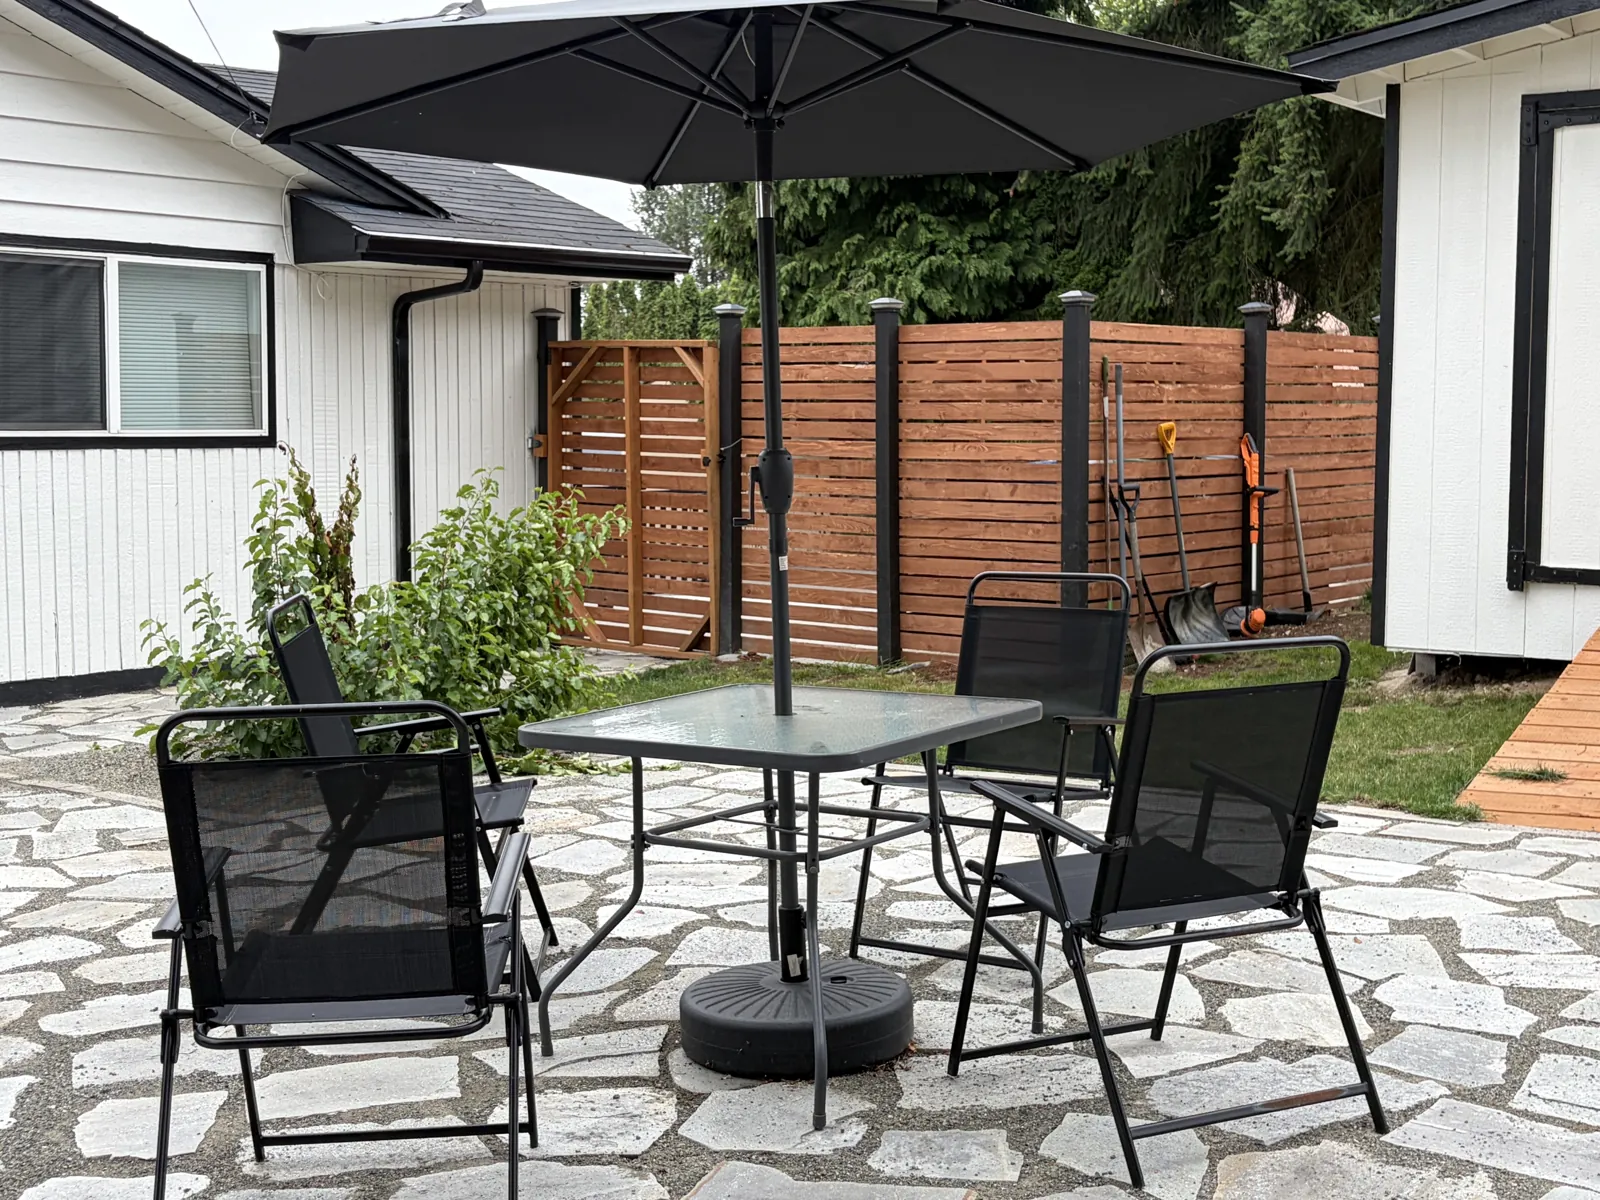
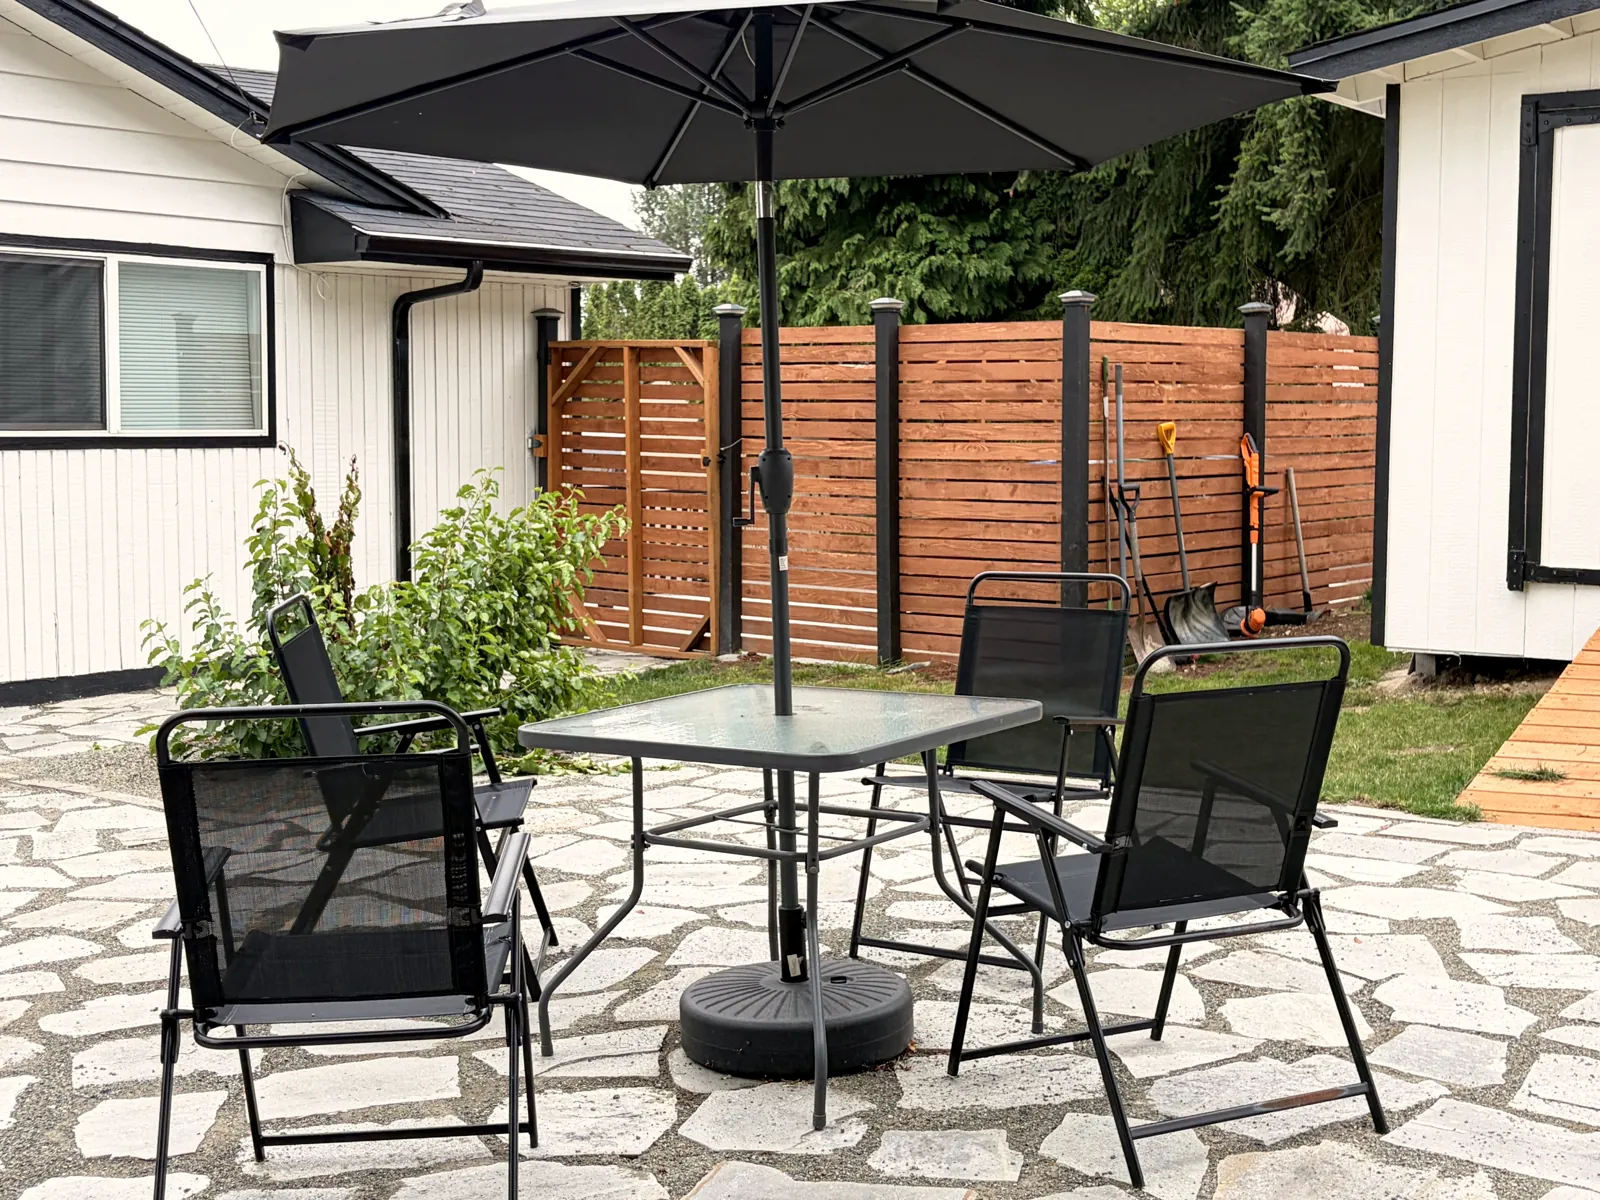
Number One Choice: brighten the exteriors, add referrals section and SEO depth
Photos were shot on an overcast day. The four exteriors are graded: shadows
opened, exposure lifted, warmed toward afternoon light, highlights rolled off
so the white siding keeps texture. No sky replacement.

Adds a "Referrals welcome" section naming his four DSHS contracts (Medicaid
AFH, Expanded Community Services, HCS and DDA Meaningful Day) with the referral
fax, three new FAQs (what an adult family home is, nurse delegation, the
contracts), schema sameAs to the Dear Care Home listing and the licence number
as an identifier. Nav tightened so seven items stay on one line.

diff --git a/numberonechoice/index.html b/numberonechoice/index.html
@@ -6,9 +6,8 @@
 <!-- PREVIEW BUILD. Domain chosen 2026-09-19: numberonechoiceafh.com (canonical, og:url and
      schema url below are already set for it). At launch, delete ONLY the robots line. -->
 <meta name="robots" content="noindex, nofollow">
-<!-- STAGED COPY: canonical, og:url and og:image point at this preview address so link
-     previews work. The source in Client/Melake - Number One/site/ keeps the real domain
-     for launch. Do not edit this copy; re-copy from source instead. -->
+<!-- STAGED COPY: canonical, og:url and og:image point here so shared links preview.
+     Source in Client/Melake - Number One/site/ keeps the real domain for launch. -->
 <link rel="canonical" href="https://fullcensus.org/numberonechoice/">
 <!-- Every factual claim on this page comes from the DSHS license record (lic 754078,
      6 beds, specialties SPMI/SPDE/SPDD, licensed 5/30/2019) or Melake's own DSHS
@@ -56,6 +55,8 @@
 "address":{"@type":"PostalAddress","streetAddress":"17225 Military Rd S","addressLocality":"SeaTac","addressRegion":"WA","postalCode":"98188","addressCountry":"US"},
 "geo":{"@type":"GeoCoordinates","latitude":47.44881,"longitude":-122.27760},
 "hasMap":"https://www.google.com/maps/search/?api=1&query=17225+Military+Rd+S%2C+SeaTac%2C+WA+98188",
+"sameAs":["https://dearcarehome.com/wa/king/seatac/number-one-choice-adult-family-home-754078/"],
+"identifier":{"@type":"PropertyValue","name":"Washington State DSHS license","value":"754078"},
 "areaServed":[
  {"@type":"City","name":"SeaTac"},{"@type":"City","name":"Burien"},{"@type":"City","name":"Tukwila"},
  {"@type":"City","name":"Des Moines"},{"@type":"City","name":"Kent"},{"@type":"City","name":"Renton"},
@@ -64,7 +65,7 @@
 "openingHoursSpecification":{"@type":"OpeningHoursSpecification","dayOfWeek":["Monday","Tuesday","Wednesday","Thursday","Friday","Saturday","Sunday"],"opens":"00:00","closes":"23:59"},
 "paymentAccepted":"Private pay, Medicaid",
 "currenciesAccepted":"USD",
-"knowsAbout":["Adult family home","Dementia care","Alzheimer's disease care","Mental health care","Developmental disabilities care","Personal care","Nurse delegation","Medication administration","Hoyer lift transfers","Respite care"],
+"knowsAbout":["Adult family home","Expanded Community Services","HCS Meaningful Day","DDA Meaningful Day","Medicaid adult family home","Dementia care","Alzheimer's disease care","Mental health care","Developmental disabilities care","Personal care","Nurse delegation","Medication administration","Hoyer lift transfers","Respite care"],
 "makesOffer":[
  {"@type":"Offer","itemOffered":{"@type":"Service","name":"Dementia care, including Alzheimer's disease","areaServed":"SeaTac, WA"}},
  {"@type":"Offer","itemOffered":{"@type":"Service","name":"Mental health care","areaServed":"SeaTac, WA"}},
@@ -85,6 +86,9 @@
 {"@type":"Question","name":"Is there a nurse at Number One Choice?","acceptedAnswer":{"@type":"Answer","text":"Yes. Melake Kifle, the provider and owner, is a Licensed Practical Nurse who lives in the home and oversees every resident's care. Caregivers are here 24 hours a day, 7 days a week."}},
 {"@type":"Question","name":"What kind of care do you provide?","acceptedAnswer":{"@type":"Answer","text":"Dementia care, mental health care, and care for adults with developmental disabilities. Every level of personal care, from reminders to full help with bathing, dressing, eating and the bathroom. Medication help and nursing tasks such as insulin injections and blood sugar checks, through nurse delegation."}},
 {"@type":"Question","name":"Do you care for people with dementia?","acceptedAnswer":{"@type":"Answer","text":"Yes. Dementia care is one of our specialties, and we have completed the Washington State DSHS training for it. We keep days calm and predictable, and we give gentle reminders and help at whatever level each person needs."}},
+{"@type":"Question","name":"What is an adult family home?","acceptedAnswer":{"@type":"Answer","text":"An adult family home is a licensed residential home that cares for up to six adults. Washington State DSHS licenses and inspects every one of them. Because the home is small, residents get far more individual attention than in a large facility, and the same caregivers are there every day."}},
+{"@type":"Question","name":"What is nurse delegation?","acceptedAnswer":{"@type":"Answer","text":"Nurse delegation is how a nurse trains and authorises caregivers to carry out specific nursing tasks for a named resident, and then supervises them. At Number One Choice the provider is a Licensed Practical Nurse, so medication administration, insulin injections, blood sugar checks, tube feeding, eye and ear drops and wound dressings can all be done here."}},
+{"@type":"Question","name":"Do you take Expanded Community Services or Meaningful Day referrals?","acceptedAnswer":{"@type":"Answer","text":"Yes. We hold DSHS contracts for Expanded Community Services, HCS Meaningful Day and DDA Meaningful Day, as well as a Medicaid adult family home contract. Call (206) 565-8428 or fax a referral to (206) 588-2784."}},
 {"@type":"Question","name":"How many residents live here?","acceptedAnswer":{"@type":"Answer","text":"Up to six. A small home means every resident is known well and gets real attention."}},
 {"@type":"Question","name":"Do you accept Medicaid?","acceptedAnswer":{"@type":"Answer","text":"Yes, for residents who have first paid privately for a period of time. Please call Melake on (206) 565-8428 to talk through your situation."}},
 {"@type":"Question","name":"How much does care cost?","acceptedAnswer":{"@type":"Answer","text":"It depends on the care each person needs. Please call Melake on (206) 565-8428 and we will talk about your family's situation."}},
@@ -146,7 +150,7 @@ h3{font-size:22px;margin-bottom:8px}
 .wm-k{font-size:11.5px;font-weight:700;letter-spacing:.16em;text-transform:uppercase;color:var(--faint);margin-top:4px}
 .nav{display:flex;align-items:center;gap:6px}
 .navlinks{display:flex;align-items:center;gap:4px}
-.navlinks a{font-size:16px;font-weight:700;color:var(--body);text-decoration:none;padding:10px 12px;border-radius:10px}
+.navlinks a{font-size:15.5px;font-weight:700;color:var(--body);text-decoration:none;padding:10px 9px;border-radius:10px;white-space:nowrap}
 .navlinks a:hover{color:var(--ink);background:var(--sky)}
 .tel{display:inline-flex;align-items:center;gap:8px;background:var(--blue);color:#fff;text-decoration:none;font-weight:700;
   font-size:16px;padding:11px 18px;border-radius:var(--pill);white-space:nowrap;margin-left:8px;min-height:46px}
@@ -154,7 +158,7 @@ h3{font-size:22px;margin-bottom:8px}
 .tel svg{width:17px;height:17px}
 .burger{display:none;width:48px;height:48px;border:0;background:transparent;border-radius:12px;cursor:pointer;color:var(--ink)}
 .burger svg{width:28px;height:28px}
-@media(max-width:1040px){
+@media(max-width:1180px){
   .navlinks{display:none;position:absolute;left:0;right:0;top:100%;background:#fff;flex-direction:column;align-items:stretch;
     padding:10px clamp(18px,4vw,40px) 18px;border-bottom:1px solid var(--line);box-shadow:var(--sh)}
   .navlinks.open{display:flex}
@@ -360,6 +364,7 @@ input:focus,select:focus,textarea:focus{outline:none;border-color:var(--blue)}
         <a href="#home">The home</a>
         <a href="#melake">Meet Melake</a>
         <a href="#cost">Paying</a>
+        <a href="#referrals">Referrals</a>
         <a href="#faq">Questions</a>
         <a href="#visit">Visit</a>
       </div>
@@ -602,6 +607,28 @@ input:focus,select:focus,textarea:focus{outline:none;border-color:var(--blue)}
   </div>
 </section>
 
+<!-- ================= REFERRALS ================= -->
+<section class="sec" id="referrals">
+  <div class="wrap">
+    <div class="center rv" style="max-width:760px">
+      <div class="kick">For case managers and discharge planners</div>
+      <h2>Referrals welcome</h2>
+      <p class="lead">We work with DSHS, Home and Community Services and hospital discharge planners, and we hold the state contracts below.</p>
+    </div>
+    <div class="cards" style="grid-template-columns:repeat(2,1fr);max-width:900px;margin-left:auto;margin-right:auto">
+      <article class="card rv"><h3>Medicaid, through DSHS</h3>
+        <p>A Medicaid adult family home contract, for residents who qualify.</p></article>
+      <article class="card rv"><h3>Expanded Community Services</h3>
+        <p>For clients who need more behavioral support than a standard placement provides.</p></article>
+      <article class="card rv"><h3>HCS Meaningful Day</h3>
+        <p>Structured daily activity for Home and Community Services clients.</p></article>
+      <article class="card rv"><h3>DDA Meaningful Day</h3>
+        <p>The same, for clients served by the Developmental Disabilities Administration.</p></article>
+    </div>
+    <p class="note rv">Send a referral by phone on <a href="tel:+12065658428" data-cta="call" data-loc="referrals">(206) 565-8428</a> or by fax to (206) 588-2784. A Licensed Practical Nurse will review it and call you back.</p>
+  </div>
+</section>
+
 <!-- ================= FAQ ================= -->
 <section class="sec band" id="faq">
   <div class="wrap">
@@ -616,6 +643,12 @@ input:focus,select:focus,textarea:focus{outline:none;border-color:var(--blue)}
         <p class="a">Dementia care, mental health care, and care for adults with developmental disabilities. Every level of personal care, from reminders to full help with bathing, dressing, eating and the bathroom. Medication help and nursing tasks such as insulin injections and blood sugar checks, through nurse delegation.</p></details>
       <details class="faq rv"><summary>Do you care for people with dementia?</summary>
         <p class="a">Yes. Dementia care is one of our specialties, and we have completed the Washington State DSHS training for it. We keep days calm and predictable, and we give gentle reminders and help at whatever level each person needs.</p></details>
+      <details class="faq rv"><summary>What is an adult family home?</summary>
+        <p class="a">An adult family home is a licensed residential home that cares for up to six adults. Washington State DSHS licenses and inspects every one of them. Because the home is small, residents get far more individual attention than in a large facility, and the same caregivers are there every day.</p></details>
+      <details class="faq rv"><summary>What is nurse delegation?</summary>
+        <p class="a">Nurse delegation is how a nurse trains and authorises caregivers to carry out specific nursing tasks for a named resident, and then supervises them. At Number One Choice the provider is a Licensed Practical Nurse, so medication administration, insulin injections, blood sugar checks, tube feeding, eye and ear drops and wound dressings can all be done here.</p></details>
+      <details class="faq rv"><summary>Do you take Expanded Community Services or Meaningful Day referrals?</summary>
+        <p class="a">Yes. We hold DSHS contracts for Expanded Community Services, HCS Meaningful Day and DDA Meaningful Day, as well as a Medicaid adult family home contract. Call (206) 565-8428 or fax a referral to (206) 588-2784.</p></details>
       <details class="faq rv"><summary>How many residents live here?</summary>
         <p class="a">Up to six. A small home means every resident is known well and gets real attention.</p></details>
       <details class="faq rv"><summary>Do you accept Medicaid?</summary>
@@ -715,7 +748,7 @@ input:focus,select:focus,textarea:focus{outline:none;border-color:var(--blue)}
       </div>
       <div><div class="fh">Explore</div>
         <a href="#care">Our care</a><br><a href="#home">The home</a><br><a href="#melake">Meet Melake</a><br>
-        <a href="#cost">Paying for care</a><br><a href="#faq">Questions</a><br><a href="#visit">Arrange a visit</a>
+        <a href="#cost">Paying for care</a><br><a href="#referrals">Referrals</a><br><a href="#faq">Questions</a><br><a href="#visit">Arrange a visit</a>
       </div>
       <div><div class="fh">Serving</div>
         SeaTac &middot; Tukwila &middot; Burien<br>Renton &middot; Des Moines &middot; Kent<br>Normandy Park &middot; Federal Way<br>South Seattle &middot; south King County<br>
